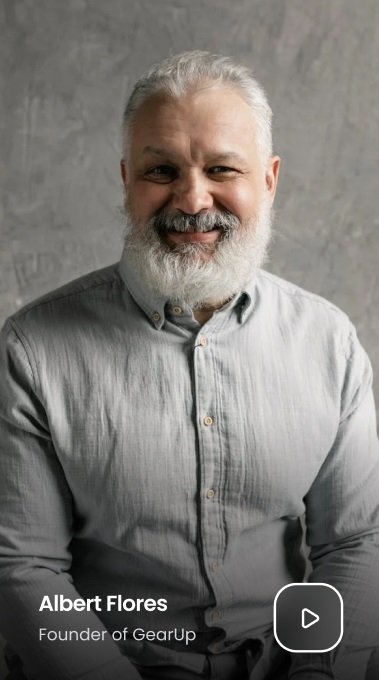
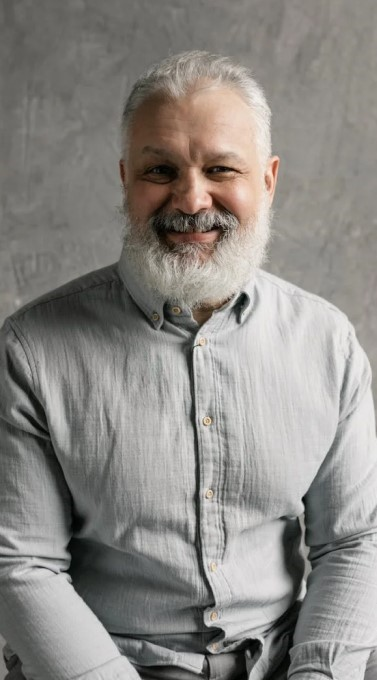
edit section8

diff --git a/Crypto/index.html b/Crypto/index.html
@@ -166,18 +166,18 @@
                     </p>
                 </div>
                 <div class="section4-right-item-post">
-                    <h3>
+                    <h5>
                         <img src="img/cube-icon.png" alt="logo cube">budgeting intervals
-                    </h3>
+                    </h5>
                     <p>
                         Lorem ipsum dolor sit amet. Qui consequatur sint 33 voluptatem officia et sint laboriosam sed
                         ipsa sint ut voluptatum labore et.
                     </p>
                 </div>
                 <div class="section4-right-item-post">
-                    <h3>
+                    <h5>
                         <img src="img/cube-icon2.png" alt="logo cube">budgeting intervals
-                    </h3>
+                    </h5>
                     <p>
                         Lorem ipsum dolor sit amet. Qui consequatur sint 33 voluptatem officia et sint laboriosam sed
                         ipsa sint ut voluptatum labore et.
@@ -234,9 +234,9 @@
                     </div>
                     <div class="section6-item-block">
                         <img src="img/chart-bar-icon.png" alt="chart bar icon">
-                        <h1>
+                        <h3>
                             Sales
-                        </h1>
+                        </h3>
                         <p>
                             Lorem ipsum dolor sit amet, consectetur adipis elit. Sit enim nec, proin faucibus nibh et
                             sagittis a. Lacinia purus ac amet.
@@ -244,9 +244,9 @@
                     </div>
                     <div class="section6-item-block">
                         <img src="img/board-icon.png" alt="board icon">
-                        <h1>
+                        <h3>
                             Onboarding
-                        </h1>
+                        </h3>
                         <p>
                             Lorem ipsum dolor sit amet, consectetur adipis elit. Sit enim nec, proin faucibus nibh et
                             sagittis a. Lacinia purus ac amet.
@@ -254,9 +254,9 @@
                     </div>
                     <div class="section6-item-block">
                         <img src="img/archive-content-icon.png" alt="archive icon">
-                        <h1>
+                        <h3>
                             Product
-                        </h1>
+                        </h3>
                         <p>
                             Lorem ipsum dolor sit amet, consectetur adipis elit. Sit enim nec, proin faucibus nibh et
                             sagittis a. Lacinia purus ac amet.
@@ -264,9 +264,9 @@
                     </div>
                     <div class="section6-item-block">
                         <img src="img/files-icon.png" alt="files icon">
-                        <h1>
+                        <h3>
                             Quality
-                        </h1>
+                        </h3>
                         <p>
                             Lorem ipsum dolor sit amet, consectetur adipis elit. Sit enim nec, proin faucibus nibh et
                             sagittis a. Lacinia purus ac amet.
@@ -274,9 +274,9 @@
                     </div>
                     <div class="section6-item-block">
                         <img src="img/diagram-icon.png" alt="diagram icon">
-                        <h1>
+                        <h3>
                             Result
-                        </h1>
+                        </h3>
                         <p>
                             Lorem ipsum dolor sit amet, consectetur adipis elit. Sit enim nec, proin faucibus nibh et
                             sagittis a. Lacinia purus ac amet.
@@ -327,9 +327,56 @@
             </div>
             <div class="section8-item2">
                 <div class="section8-item2-photo">
-                    <img src="img/section8-foto1.jpg" alt="photo of a gray-haired man">
-                    <img src="img/section8-foto2.jpg" alt="photo of a woman with black hair">
-                    <img src="img/section8-foto3.jpg" alt="photo of a woman with red hair">
+                    <div class="section8-photo-container">
+                        <img src="img/section8-foto1.jpg" alt="photo of a gray-haired man">
+                        <div class="section8-photo-content">
+                            <div class="section8-photo-title">
+                                <h2>
+                                    Albert Flores
+                                </h2>
+                                <h3>
+                                    Founder of GearUp
+                                </h3>
+                            </div>
+                            <div class="section8-icon-container">
+                                <img src="img/Play.png" alt="play icon">
+                            </div>
+                        </div>
+                    </div>
+                    <div class="section8-photo-container">
+                        <img src="img/section8-foto2.jpg" alt="photo of a woman with black hair">
+                        <div class="section8-photo-content">
+                            <div class="section8-photo-title">
+                                <h2>
+                                    Leslie Alexander
+                                </h2>
+                                <h3>
+                                    Co-Founder of Womenia
+                                </h3>
+                            </div>
+                            <div class="section8-icon-container">
+                                <img src="img/Play.png" alt="play icon">
+                            </div>
+                        </div>
+                    </div>
+                    <div>
+                        <div class="section8-photo-container">
+                            <img src="img/section8-foto3.jpg" alt="photo of a woman with red hair">
+                            <div class="section8-photo-content">
+                                <div class="section8-photo-title">
+                                    <h2>
+                                        Courtney Henry
+                                    </h2>
+                                    <h3>
+                                        Founder of CH Beauty
+                                    </h3>
+                                </div>
+                                <div class="section8-icon-container">
+                                    <img src="img/Play.png" alt="play icon">
+                                </div>
+                            </div>
+                        </div>
+                    </div>
                 </div>
                 <div class="section8-item2-ellipse">
                     <img src="img/ellipse.png" alt="ellipse">

diff --git a/Crypto/css/style.css b/Crypto/css/style.css
@@ -152,7 +152,7 @@ body {
 }
 
 .container {
-    max-width: 1280px;
+    max-width: 1305px;
     margin-left: auto;
     margin-right: auto;
 }
@@ -854,14 +854,97 @@ body {
 
 .section8-item2-photo {
     display: flex;
-    justify-content: center;
-    gap: 60px;
+    justify-content: space-between;
 }
 
-.section8-item2-photo img {
-    border-radius: 24px;
-    max-width: 379px;
+.section8-photo-container {
+    position: relative;
+    max-width: 380px;
+}
+
+.section8-photo-container img {
+    max-width: 380px;
+    width: 100%;
     height: auto;
+    border-radius: 24px;
+}
+
+.section8-photo-container::after {
+    content: "";
+    position: absolute;
+    top: 411px;
+    left: 0;
+    width: 100%;
+    height: 100%;
+    background: linear-gradient(0deg, #000000 0%, rgba(0, 0, 0, 0) 100%);
+    opacity: 0.8;
+    border-radius: 24px;
+    max-height: 268px;
+    
+}
+
+.section8-photo-content {
+    width: 100%;
+    display: flex;
+    position: absolute;
+    justify-content: space-between;
+    z-index: 1;
+    top: 92%;
+    left: 50%;
+    transform: translate(-50%, -50%);
+    padding: 0px 38px 28px 38px;
+
+}
+
+.section8-photo-title {
+    display: flex;
+    justify-content: center;
+    flex-direction: column;
+}
+
+.section8-photo-title h2 {
+    font-family: 'Poppins';
+    font-style: normal;
+    font-weight: 600;
+    font-size: 21.6069px;
+    line-height: 29px;
+    align-items: center;
+    letter-spacing: -0.600191px;
+    color: #FFFFFF;
+}
+
+.section8-photo-title h3 {
+    font-family: 'Poppins';
+    font-style: normal;
+    font-weight: 400;
+    font-size: 16.8053px;
+    line-height: 26px;
+    color: #D4D4D8;
+}
+
+.section8-icon-container {
+    display: block;
+    position: relative;
+    max-width: 70px;
+    max-height: 70px;
+}
+
+.section8-icon-container::before {
+    content: "";
+    position: absolute;
+    top: 0;
+    left: 0;
+    width: 100%;
+    height: 100%;
+    backdrop-filter: blur(10px);
+    border-radius: 50px;
+    z-index: 1;
+}
+
+.section8-icon-container img {
+    display: block;
+    position: relative;
+    z-index: 2;
 }
 
 .section8-item2-ellipse img {
@@ -932,6 +1015,7 @@ body {
     display: block;
     max-width: 1305px;
     height: auto;
+    width: 100%;
 }
 
 /* Footer */
